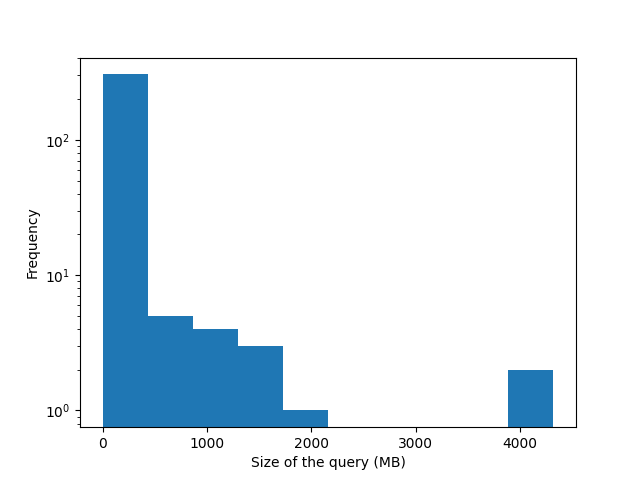
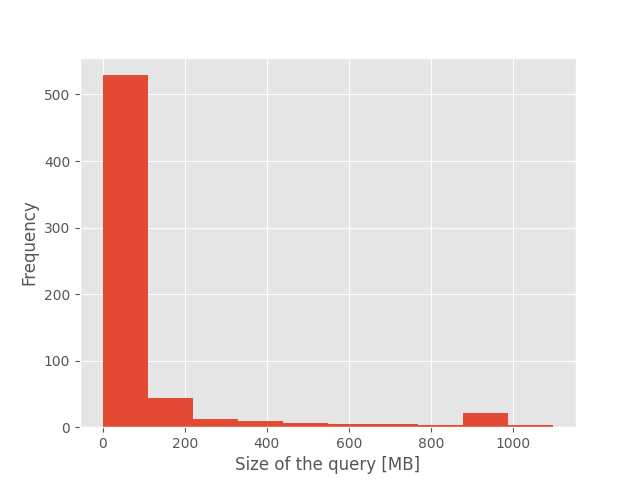
Add helper methods to determine query sizes

diff --git a/src/main/java/Tester.java b/src/main/java/Tester.java
@@ -1,15 +1,12 @@
 import batch.QueryBatcher;
-import common.Configuration;
-import common.QueryExecutor;
-import common.QueryUtils;
-import common.Utils;
+import cache.policy.ReplacementPolicy;
+import common.*;
 import mv.MViewOptimizer;
 import org.apache.calcite.plan.RelOptMaterialization;
 import org.apache.calcite.rel.RelNode;
 import org.apache.calcite.sql.SqlNode;
 import org.apache.commons.io.FileUtils;
 import org.apache.commons.math3.stat.descriptive.DescriptiveStatistics;
-import test.QueryProvider;
 import test.QueryReader;
 
 import java.io.IOException;
@@ -21,13 +18,13 @@ public class Tester {
     private final Configuration config;
     private final MViewOptimizer optimizer;
 
-    private final QueryProvider queryProvider;
+//    private final QueryProvider queryProvider;
 
     public Tester(Configuration config) {
         this.optimizer = new MViewOptimizer(config);
         this.executor = new QueryExecutor(config);
         this.config = config;
-        this.queryProvider = new QueryProvider();
+//        this.queryProvider = new QueryProvider();
     }
 
     public void testMVSubstitution() throws Exception {
@@ -95,37 +92,43 @@ public class Tester {
         System.out.println(stats);
     }
 
-    public void printQuerySizes() {
+    public void printQuerySizes() throws IOException {
         List<Long> sizes = new ArrayList<>();
-        List<String> queries = queryProvider.queries;
-        for (String query : queries) {
-            MViewOptimizer op = new MViewOptimizer(config);
-            QueryExecutor executor = new QueryExecutor(config);
-            RelOptMaterialization m = op.materialize(Utils.randomString(5), query);
-            sizes.add(QueryUtils.getTableSize(query, m, executor));
+        List<String> queries = QueryReader.getQueries(20);
+        for (int i = 0; i < queries.size(); i++) {
+            System.out.println("============================================");
+            System.out.println("Executing " + i);
+            String query = queries.get(i);
+            System.out.println(Utils.getPrintableSql(query));
+            RelOptMaterialization m = optimizer.materialize(Utils.randomString(5), query);
+            long size = QueryUtils.getTableSize(query, m, executor);
+            m = null;
+            sizes.add(size);
+            Logger.logCache("Size: " + FileUtils.byteCountToDisplaySize(size));
         }
+
+        System.out.println("Unsorted byte sizes");
+        System.out.println(sizes);
 
         Collections.sort(sizes);
         List<String> sizeStrings = sizes.stream().map(FileUtils::byteCountToDisplaySize).toList();
+        System.out.println("Sorted readable sizes");
         System.out.println(sizeStrings);
     }
 
     public void testFindDerivablePercentage() throws IOException {
         boolean deAgg = true;
-        List<String> queries = QueryReader.getQueries(10);
+        List<String> queries = QueryReader.getQueries(20);
 
         MViewOptimizer op = new MViewOptimizer(config);
         QueryExecutor executor = new QueryExecutor(config);
 
-        for (int i = 0; i < 5; i++) {
-            Utils.shuffle(queries);
-        }
-
         List<RelOptMaterialization> materializations = new ArrayList<>();
         int numDerivable = 0;
+        Utils.shuffle(queries);
         outerloop:
-        for (int i=0; i < queries.size(); i++) {
-            System.out.println("Processing " + i);
+        for (int i = 0; i < queries.size(); i++) {
+            System.out.print("\rProcessing " + i);
             for (RelOptMaterialization m : materializations) {
                 RelNode sub = op.substitute(m, executor.getLogicalPlan(queries.get(i)));
                 if (sub != null) {
@@ -142,12 +145,13 @@ public class Tester {
 
             materializations.add(op.materialize(Utils.randomString(7), mat));
         }
+        System.out.println();
         System.out.println("Number of derivable: " + numDerivable);
     }
 
-    public void testCacheSizeMetrics(int size) {
+    public void testCacheSizeMetrics(int size, ReplacementPolicy<RelOptMaterialization> policy) {
         System.out.println("Setting cache size " + size + " MB");
-        Window window = new Window(config, size);
+        Window window = new Window(config, size, policy);
         window.run();
     }
 }

diff --git a/src/main/java/Main.java b/src/main/java/Main.java
@@ -1,12 +1,12 @@
 import cache.Cache;
+import cache.policy.FIFOPolicy;
+import cache.policy.LFUPolicy;
+import cache.policy.LRUPolicy;
+import cache.policy.ReplacementPolicy;
 import common.Configuration;
+import org.apache.calcite.plan.RelOptMaterialization;
 
 import java.io.PrintStream;
-import java.util.Arrays;
-
-import static com.diogonunes.jcolor.Ansi.colorize;
-import static com.diogonunes.jcolor.Attribute.MAGENTA_BACK;
-import static com.diogonunes.jcolor.Attribute.YELLOW_TEXT;
 
 public class Main {
 
@@ -15,14 +15,22 @@ public class Main {
     public static void main(String[] args) throws Exception {
         hideLoggerWarnings();
 
+//        args = new String[]{"testCacheSize", "5", "lru"};
+
         Configuration config = Configuration.initialize();
 
-        if (args[0].equals(TEST_MODE_CACHE_SIZE)) {
-            Tester tester = new Tester(config);
-            tester.testCacheSizeMetrics(Cache.SIZES_MB.get(Integer.parseInt(args[1])));
+        Tester tester = new Tester(config);
+        if (args.length > 0 && args[0].equals(TEST_MODE_CACHE_SIZE)) {
+            int size = Cache.SIZES_MB.get(Integer.parseInt(args[1]));
+            ReplacementPolicy<RelOptMaterialization> pol = args[2].equals("fifo") ? new FIFOPolicy<>()
+                    : args[2].equals("lfu") ? new LFUPolicy<>()
+                    : new LRUPolicy<>();
+
+            tester.testCacheSizeMetrics(size, pol);
         }
 
-        System.out.println(colorize("Got arguments " + Arrays.toString(args), YELLOW_TEXT(), MAGENTA_BACK()));
+//        tester.testFindDerivablePercentage();
+        tester.printQuerySizes();
     }
 
     public static void hideLoggerWarnings() {

diff --git a/src/main/java/Window.java b/src/main/java/Window.java
@@ -3,7 +3,7 @@ import batch.data.BatchedQuery;
 import cache.Cache;
 import cache.CacheItem;
 import cache.dim.Dimension;
-import cache.policy.LRUPolicy;
+import cache.policy.ReplacementPolicy;
 import common.Configuration;
 import common.QueryExecutor;
 import common.QueryUtils;
@@ -34,7 +34,7 @@ public class Window {
     //so that we can subtract this from the execution time.
     public long subtractable;
 
-    public Window(Configuration configuration, int sizeMB) {
+    public Window(Configuration configuration, int sizeMB, ReplacementPolicy<RelOptMaterialization> policy) {
         this.executor = new QueryExecutor(configuration);
         this.provider = new QueryProvider();
 
@@ -42,7 +42,7 @@ public class Window {
         this.optimizer = new MViewOptimizer(configuration);
 
 //        this.cache = new Cache<>(new LRUPolicy<>(), Dimension.COUNT(30));
-        this.cache = new Cache<>(new LRUPolicy<>(), Dimension.SIZE(sizeMB * FileUtils.ONE_MB));
+        this.cache = new Cache<>(policy, Dimension.SIZE(sizeMB * FileUtils.ONE_MB));
     }
 
     public void testBatch() {

diff --git a/src/main/java/cache/policy/LFUPolicy.java b/src/main/java/cache/policy/LFUPolicy.java
@@ -6,11 +6,14 @@ import cache.dim.Dimension;
 import java.util.List;
 import java.util.stream.IntStream;
 
+import static common.Logger.logCache;
+
 public class LFUPolicy<T> implements ReplacementPolicy<T> {
 
     @Override
     public long clean(List<CacheItem<T>> cacheItems, long currentSize, Dimension dimension, float proportion) {
         int newSize = (int) (dimension.getValue() * proportion);
+        logCache("Cache clean called when cache size is " + currentSize + ", num items: " + cacheItems.size());
 
         while (currentSize > newSize) {
             int minIdx = IntStream.range(0, cacheItems.size())
@@ -24,5 +27,10 @@ public class LFUPolicy<T> implements ReplacementPolicy<T> {
         }
 
         return currentSize;
+    }
+
+    @Override
+    public String toString() {
+        return "LFU";
     }
 }

diff --git a/src/main/java/cache/policy/LRUPolicy.java b/src/main/java/cache/policy/LRUPolicy.java
@@ -13,7 +13,7 @@ public class LRUPolicy<T> implements ReplacementPolicy<T> {
     @Override
     public long clean(List<CacheItem<T>> cacheItems, long currentSize, Dimension dimension, float proportion) {
         int newSize = (int) (dimension.getValue() * proportion);
-        logCache("First cache clean called when cache size is " + currentSize + ", num items: " + cacheItems.size());
+        logCache("Cache clean called when cache size is " + currentSize + ", num items: " + cacheItems.size());
 
         while (currentSize > newSize) {
             int minIdx = IntStream.range(0, cacheItems.size())
@@ -26,5 +26,10 @@ public class LRUPolicy<T> implements ReplacementPolicy<T> {
         }
 
         return currentSize;
+    }
+
+    @Override
+    public String toString() {
+        return "LRU";
     }
 }

diff --git a/src/main/java/cache/policy/FIFOPolicy.java b/src/main/java/cache/policy/FIFOPolicy.java
@@ -5,10 +5,14 @@ import cache.dim.Dimension;
 
 import java.util.List;
 
+import static common.Logger.logCache;
+
 public class FIFOPolicy<T> implements ReplacementPolicy<T> {
 
     @Override
     public long clean(List<CacheItem<T>> cacheItems, long currentSize, Dimension dimension, float proportion) {
+        logCache("Cache clean called when cache size is " + currentSize + ", num items: " + cacheItems.size());
+
         int newSize = (int) (dimension.getValue() * proportion);
         while (currentSize > newSize) {
             currentSize -= cacheItems.get(0).getValue();
@@ -17,5 +21,10 @@ public class FIFOPolicy<T> implements ReplacementPolicy<T> {
         }
 
         return currentSize;
+    }
+
+    @Override
+    public String toString() {
+        return "FIFO";
     }
 }

diff --git a/src/main/java/test/QueryProvider.java b/src/main/java/test/QueryProvider.java
@@ -16,8 +16,8 @@ public class QueryProvider {
 
     public QueryProvider() {
         try {
-            queries = QueryReader.getQueries(1);
-            for (int i = 0; i < 5; i++) Utils.shuffle(queries);
+            queries = QueryReader.getQueries(20);
+            Utils.shuffle(queries);
         } catch (IOException e) {
             e.printStackTrace();
         }
